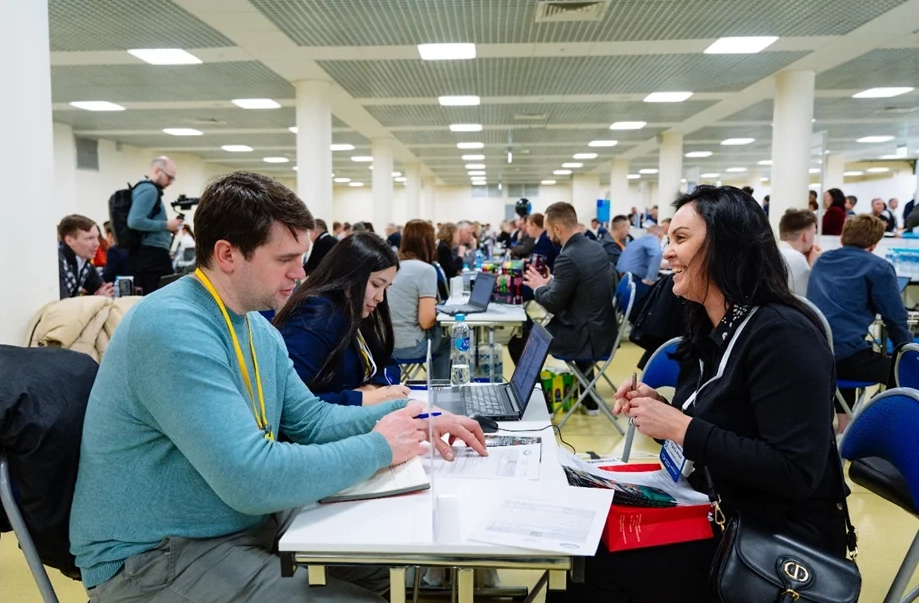
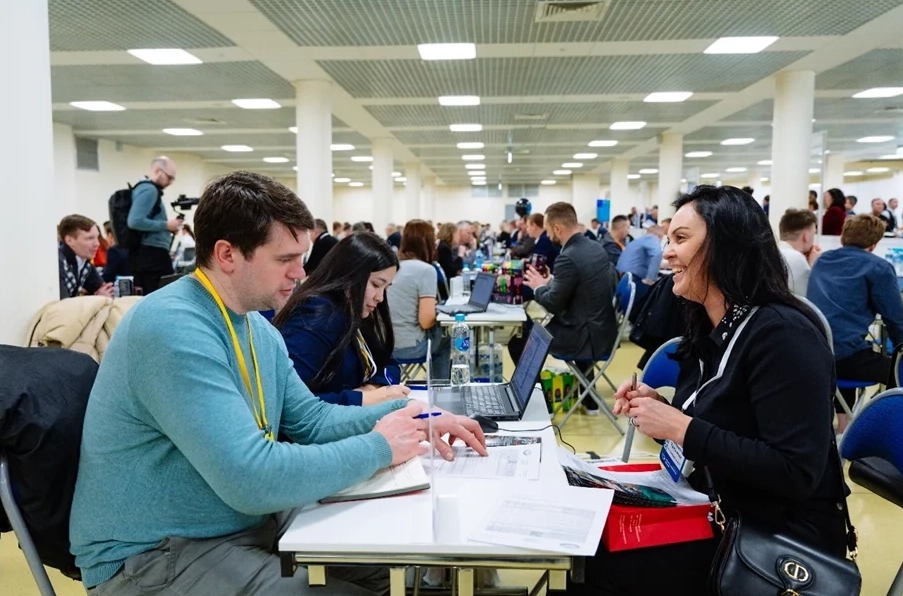
add foto

diff --git a/css/buyers.css b/css/buyers.css
@@ -213,6 +213,9 @@
 
 }
 
+.buyers_page .foto {
+    margin: calc(var(--base-gap) * 2) 0;
+}
 .buyers_page .foto__list {
     display: flex;
     gap: var(--base-gap);
@@ -556,13 +559,18 @@
         width: 100%;
     }
 
-    .buyers_page .description__banner-img{
+    .buyers_page .description__banner-img{        
        margin-bottom: calc(var(--base-gap)* 2);
     }
+
     .buyers_page .description__block-picture {
         max-width: 100%;
     }
 
+    .buyers_page .foto {
+        margin: 0 0;
+    }
+    
     .buyers_page .foto__list {
         flex-direction: column;
     }
@@ -570,7 +578,14 @@
     .buyers_page .foto_item {
         width: 100%;
     }
-
+    .buyers_page .foto__img {
+    border-radius: calc(var(--base-font-size) * 0.5); 
+    }  
+    
+    .buyers_page .hide{
+        display: none;
+    }
+    
     .buyers_page .category-group {
         flex-direction: column;
         gap: calc(var(--base-gap)* 2);
@@ -665,6 +680,9 @@
         width: 100%;
     }
     
+    .buyers_page .foto {
+        margin: calc(var(--base-gap) * 2) 0 0 0;
+    }
     .buyers_page .advantages__img {
         /* margin-bottom: calc(var(--base-gap) * 4); */
         width: calc(var(--base-font-size) * 5.625);

diff --git a/buyers.html b/buyers.html
@@ -212,6 +212,16 @@
                     </div>
                 </div>
             </section>
+            <section class="foto">
+                <ul class="foto__list list-reset">
+                    <li class="foto_item">
+                        <img class="foto__img" src="img/image.webp" alt="forum">
+                    </li>
+                    <li class="foto_item hide">
+                        <img class="foto__img" src="img/image3.webp" alt="forum">
+                    </li>
+                </ul>
+            </section>
             <section class="category">
                 <h3 class="category__subtitle">Категории</h3>
                 <ul class="category__list-group list-reset">

diff --git a/css/vendor.css b/css/vendor.css
@@ -64,6 +64,7 @@
 .vendors_page .description__span {
     font-weight: 600;
 }
+
 /* banner */
 .vendors_page .description__banner {
     display: flex;
@@ -512,6 +513,9 @@
         border-bottom: 3px solid #d2b175;
     }
 
+    .vendors_page .foto {
+        margin: 0 0;
+    }
     .vendors_page .foto__list {
         flex-direction: column;
     }
@@ -520,6 +524,13 @@
         width: 100%;
     }
 
+    .vendors_page .foto__img {
+        border-radius: calc(var(--base-border-radius)* 0.5);
+    }
+
+    .vendors_page .category {
+        margin: 0 0;
+    }
     .vendors_page .category-group {
         flex-direction: column;
         gap: calc(var(--base-gap)* 2);

diff --git a/calendar.html b/calendar.html
@@ -70,7 +70,7 @@
         </nav>
 
     </header>
-    <main div class="event">
+    <main div class="events">
         <div class="container">
             <section class="title__block">
                 <h2 class="title">Календарь событий</h2>
@@ -78,6 +78,7 @@
                     <a href="https://portal.platforma-czs.ru/">Главная</a> / <span>Календарь событий</span> /
                 </div>
             </section>
+            <section class="event__list"></section>
            
         </div>
     </main>
